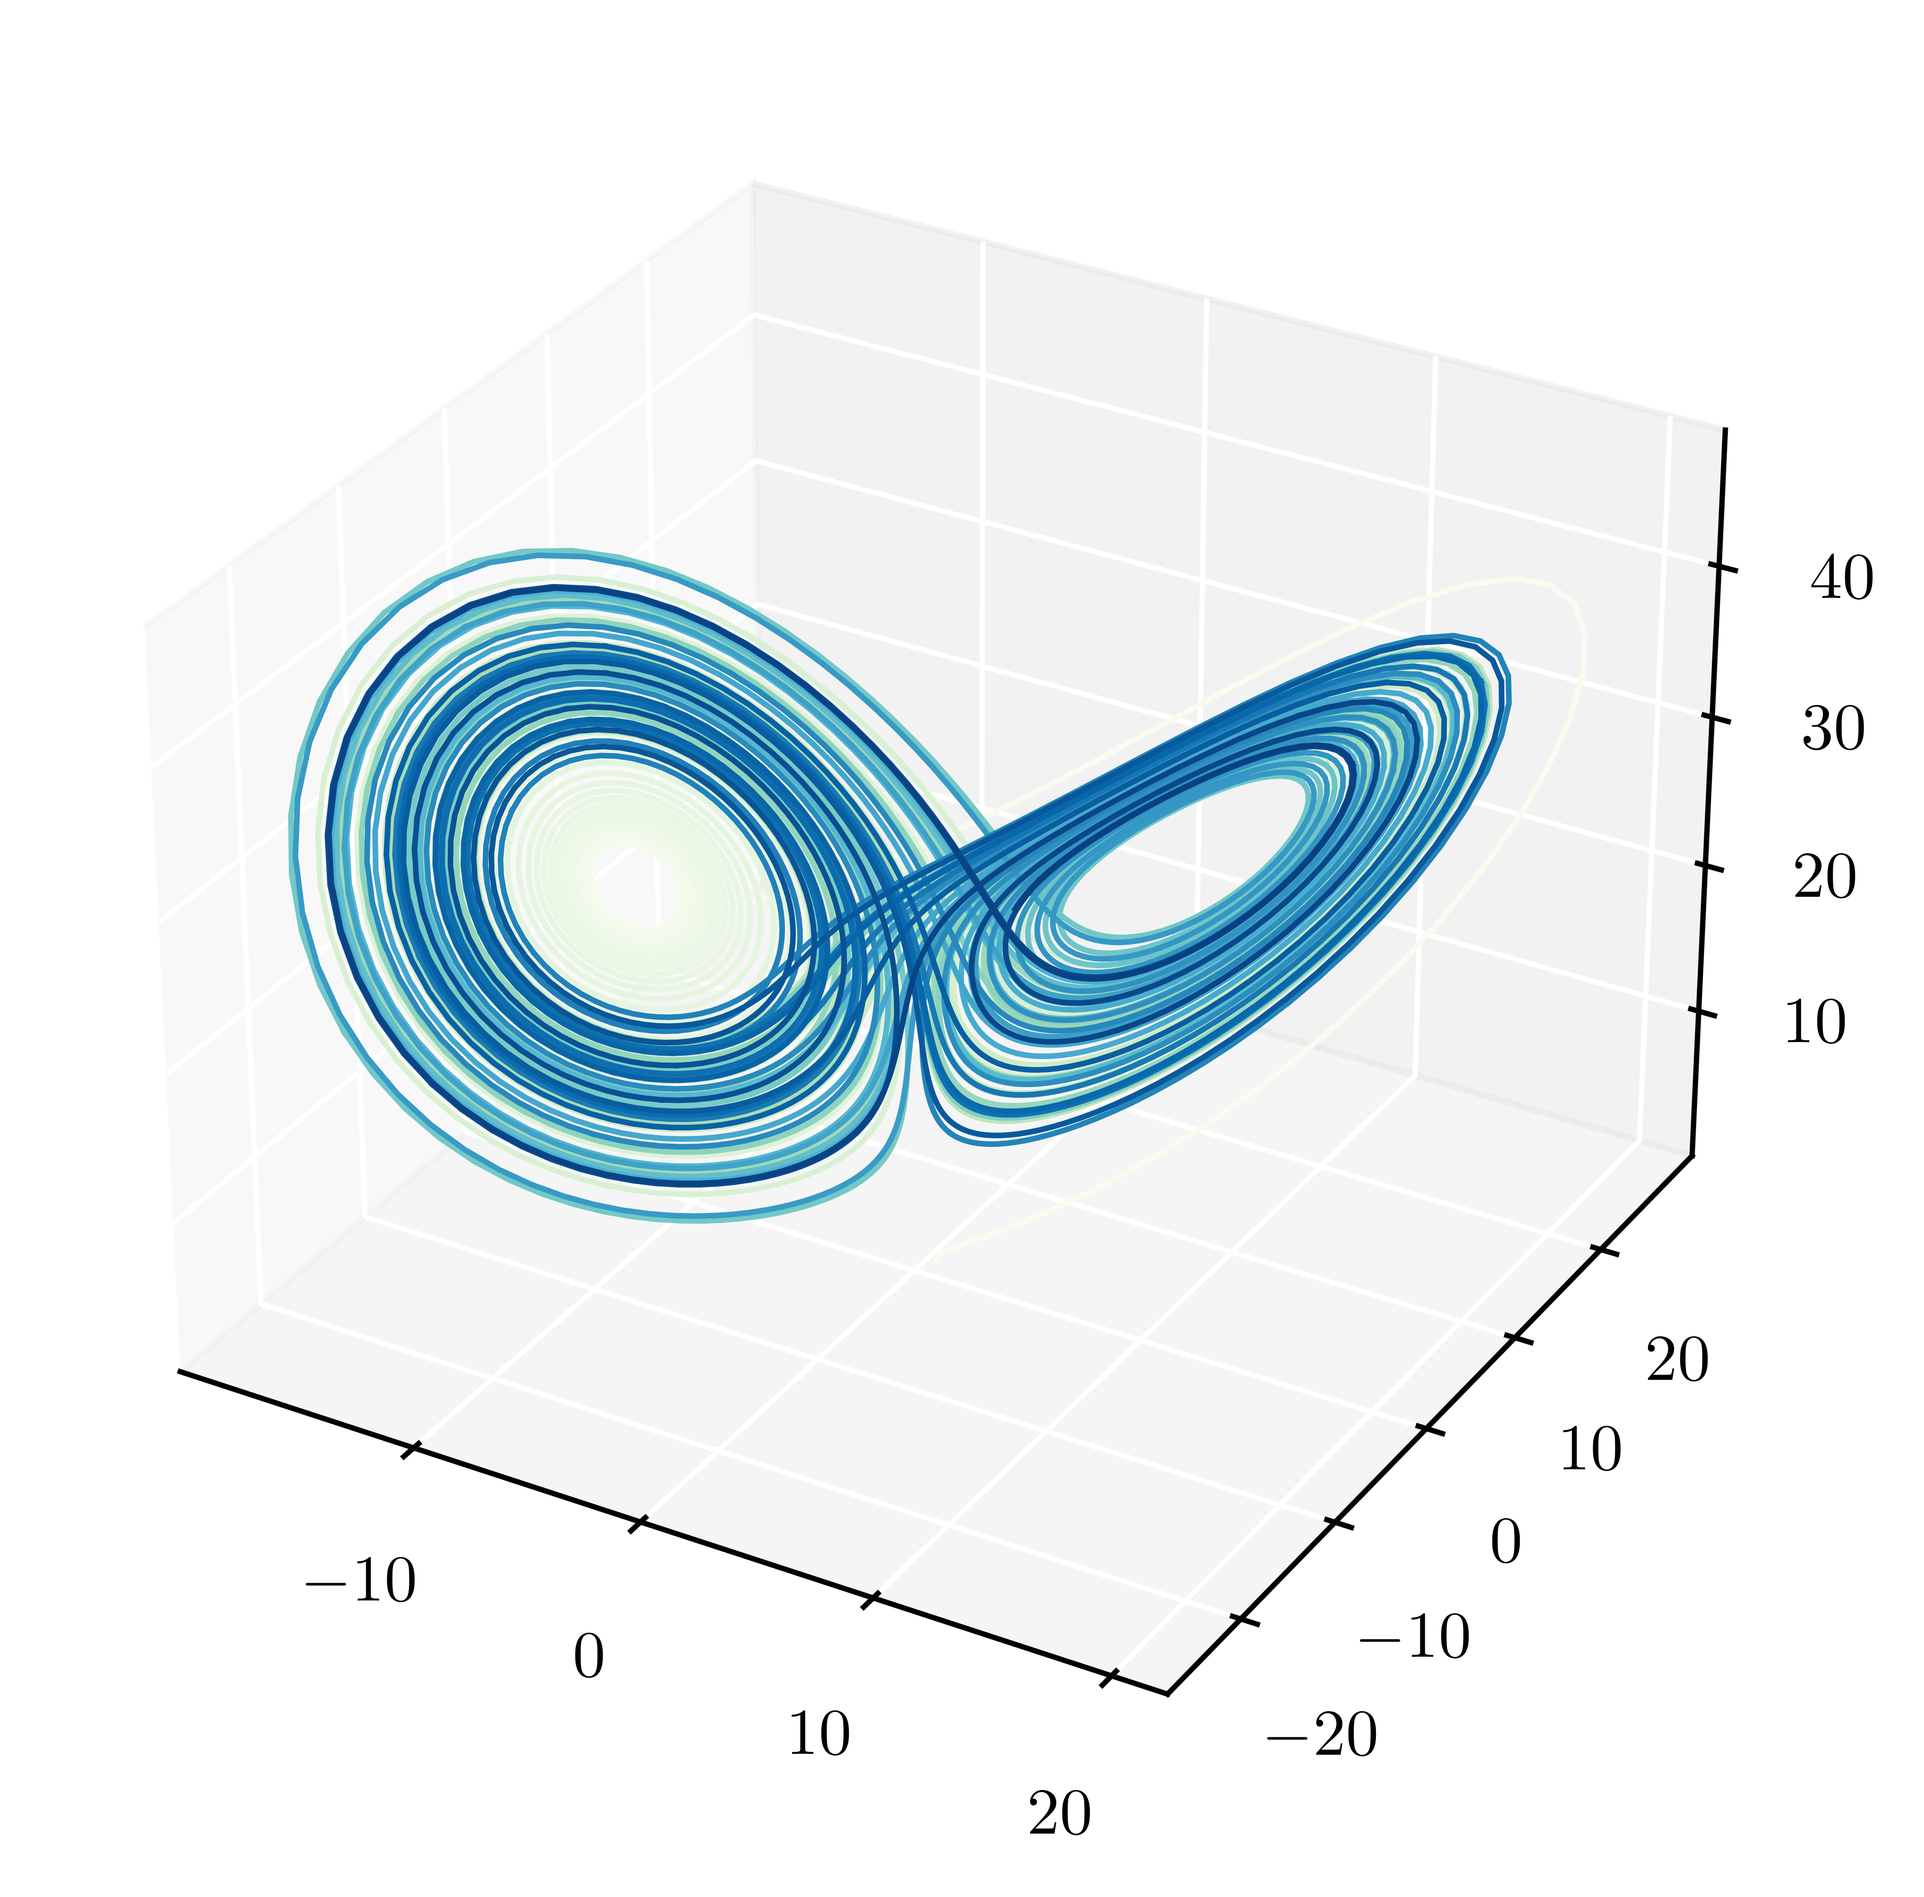
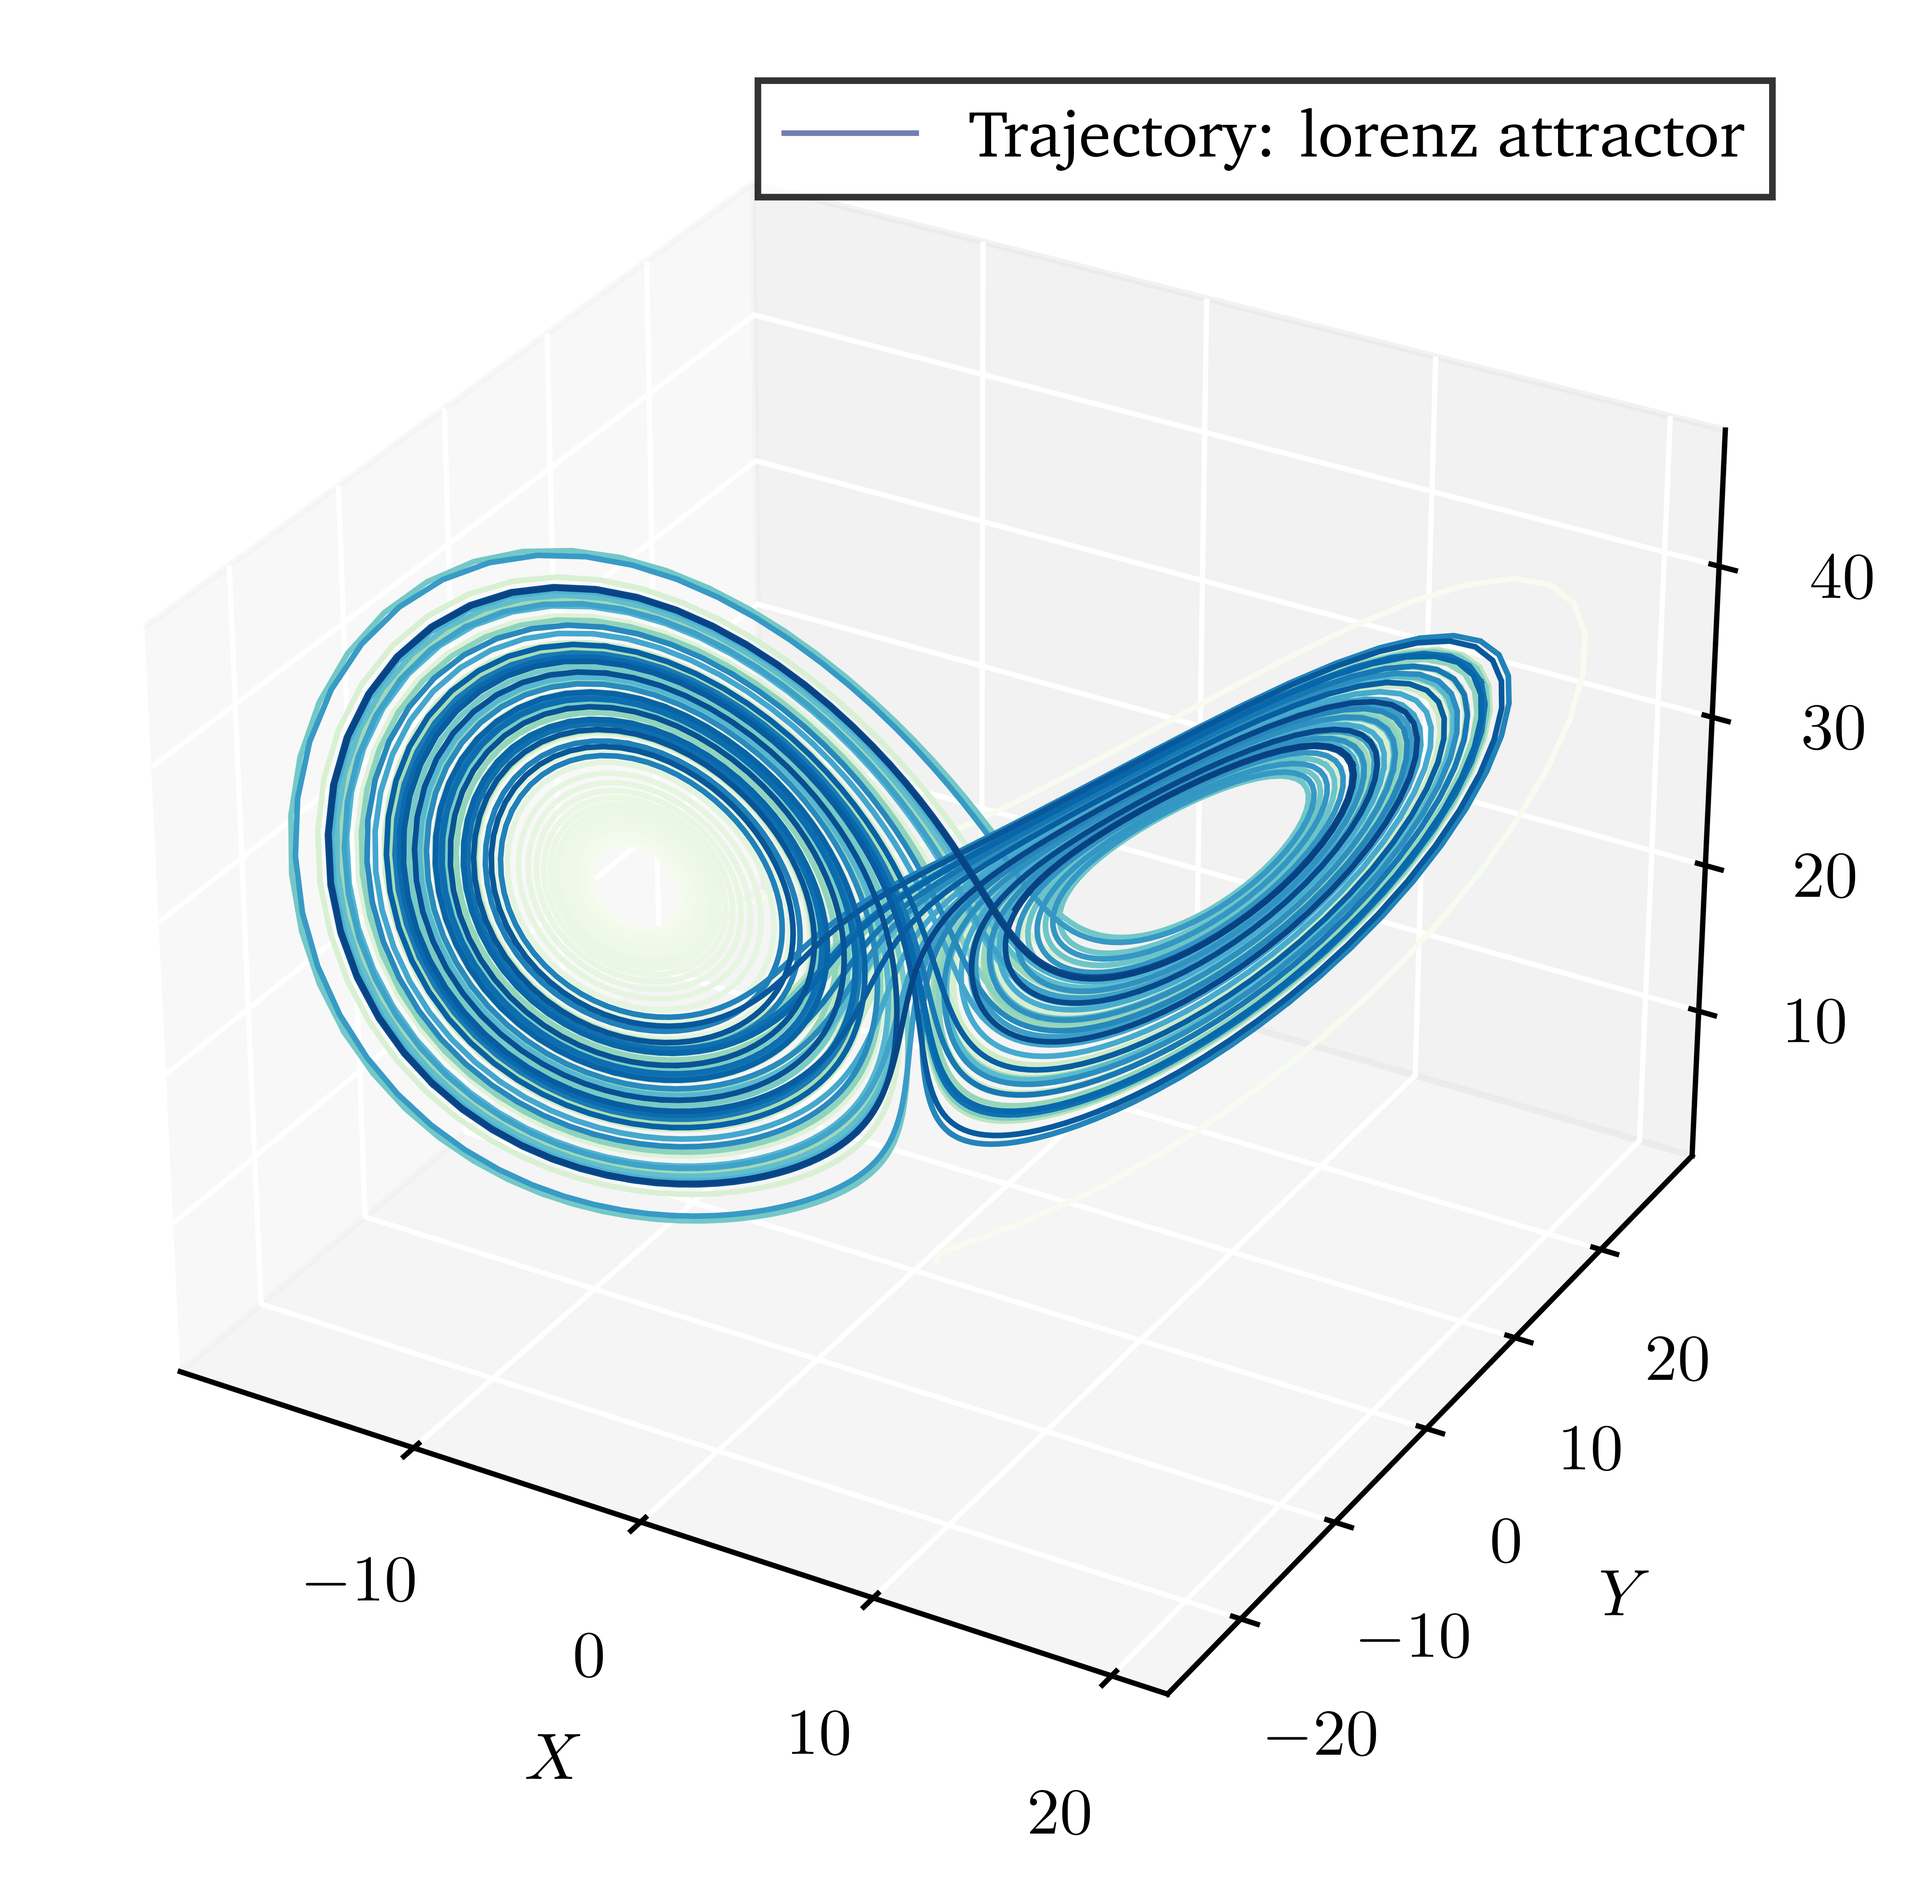
Update trajectories figures

Changed region(s): [[0.3732, 0.0311, 0.9331, 0.1245], [0.2799, 0.9027, 0.311, 0.9338]]

diff --git a/attractors/attractors/attractor.py b/attractors/attractors/attractor.py
@@ -107,15 +107,14 @@ class ChaosAttractor:
                      )
 
         handles, labels = axs.get_legend_handles_labels()
+        axs.set_xlabel(r'$X$')
+        axs.set_ylabel(r'$Y$')
+        axs.set_zlabel(r'$Z$')
+        axs.legend(handles=handles, labels=labels)
 
         if save:
             plt.savefig(f'./attractors/figs/trajectories/traj_{self.name}.png')
 
-        axs.set_xlabel(r'$X$')
-        axs.set_ylabel(r'$Y$')
-        axs.set_zlabel(r'$Z$')
-
-        axs.legend(handles=handles, labels=labels)
         plt.show()
 
         return

diff --git a/attractors/attractors/rossler.py b/attractors/attractors/rossler.py
@@ -78,4 +78,4 @@ if __name__ == '__main__':
                  time_domain=time
                  )
 
-    ex.plot_lyapunovs()
+    ex.plot_trajectory(save=True)
